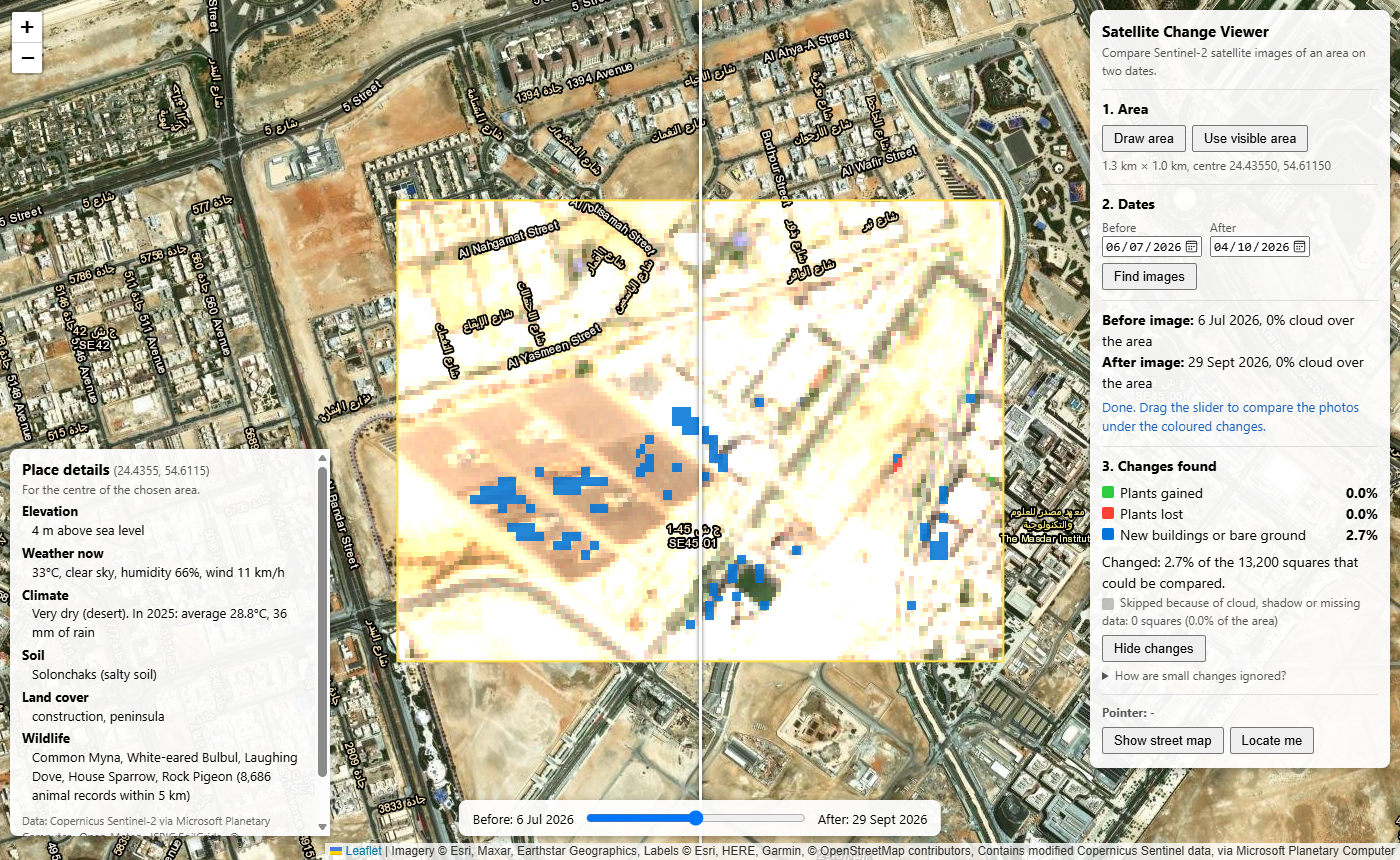
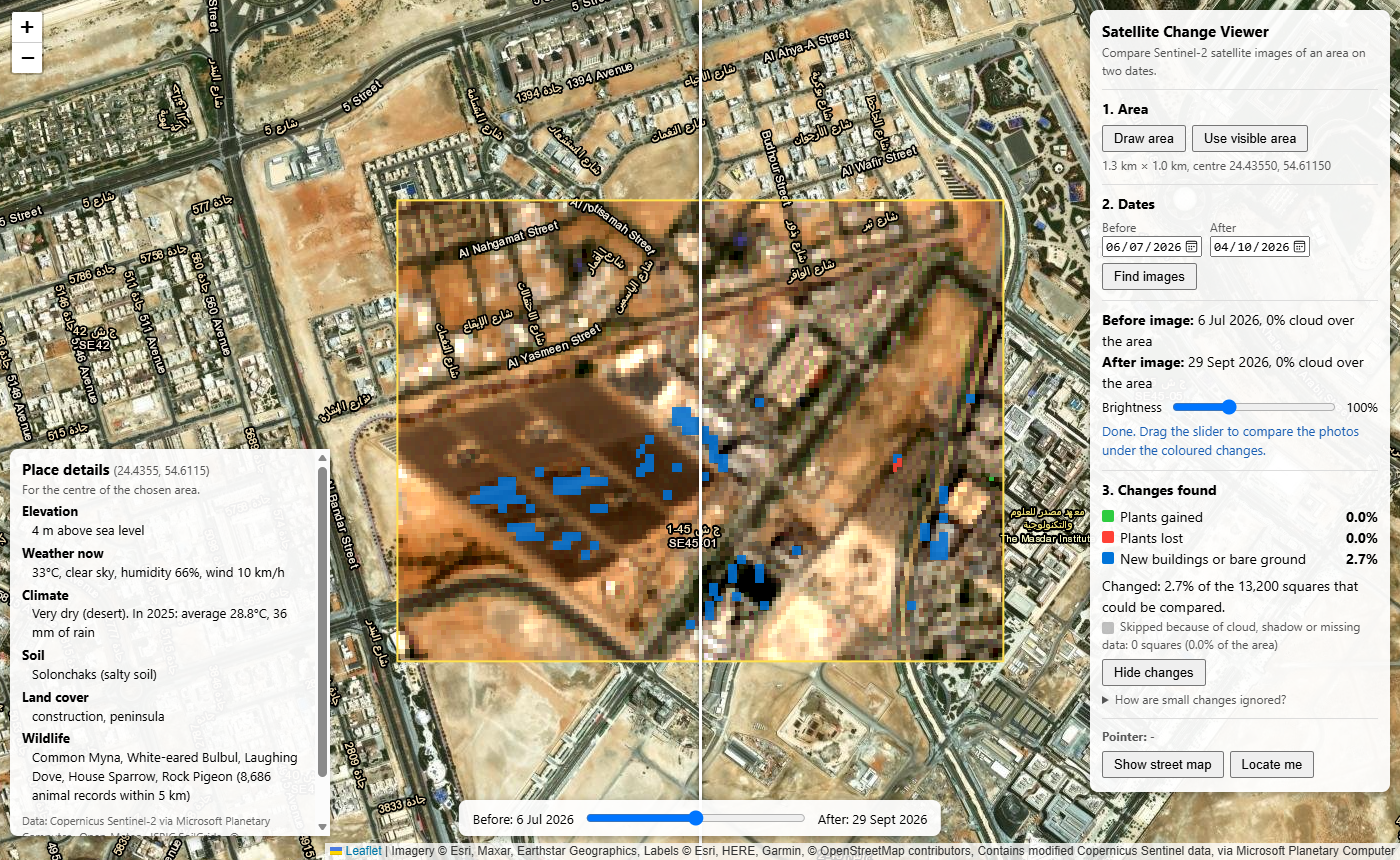
Clearer photos: automatic brightness stretch and brightness slider
The ready-made "visual" picture clips reflectance above 0.25 to white, so
desert areas came out almost white. Tiles are now built from B04/B03/B02
with a white point taken from the brightest 2% of pixels in the area
(shared by both dates), plus a 50-200% brightness slider. Band reads use
the files' smaller overview copies when the sample grid is coarse.

Changed region(s): [[0.2764, 0.2116, 0.7371, 0.786], [0.7679, 0.4535, 1.0, 0.9372]]

diff --git a/main.js b/main.js
@@ -39,6 +39,15 @@ const SHADOW_DARKENING = 0.6; // ground that became this much darker (less than 
 const CHANGE_PIXEL_METRES = 10; // size of each compared square (Sentinel-2's sharpest bands are 10 m)
 const MAX_CHANGE_AREA_KM = 10; // larger areas would download too much, so changes aren't calculated
 
+// --- Showing the photos ---
+// Black always means "no light reflected". How bright counts as white is chosen
+// from the pixels inside your area: the brightest 2% are shown as white, and
+// everything darker is spread evenly below. That way bright desert and darker
+// city both show detail.
+const DISPLAY_BRIGHT_PERCENT = 98;
+// Used if the automatic white point can't be worked out (reflectance 0.4)
+const DEFAULT_DISPLAY_WHITE = 0.4;
+
 // Microsoft Planetary Computer: a free catalogue of Sentinel-2 images, a
 // service that turns any image into map tiles, and the image files themselves.
 // None of these need an API key. Reading the files needs a free "token"
@@ -386,7 +395,7 @@ function makeGrid(area, metres) {
       lngs[i] = area.getWest() + ((column + 0.5) * (area.getEast() - area.getWest())) / columns;
     }
   }
-  return { columns: columns, rows: rows, lats: lats, lngs: lngs };
+  return { columns: columns, rows: rows, lats: lats, lngs: lngs, metres: metres };
 }
 
 // Sentinel-2 files don't use latitude and longitude. They use a flat map grid
@@ -413,7 +422,7 @@ function projectGrid(grid, item) {
     minY = Math.min(minY, y);
     maxY = Math.max(maxY, y);
   }
-  return { xs: xs, ys: ys, minX: minX, maxX: maxX, minY: minY, maxY: maxY };
+  return { xs: xs, ys: ys, minX: minX, maxX: maxX, minY: minY, maxY: maxY, metres: grid.metres };
 }
 
 // Reads one band of a photo, and returns its value at every grid point
@@ -435,9 +444,28 @@ async function readBandOnGrid(item, bandName, token, projected) {
 
 async function readBandOnGridOnce(item, bandName, token, projected) {
   const tiff = await GeoTIFF.fromUrl(item.assets[bandName].href + "?" + token);
-  const image = await tiff.getImage();
-  const [originX, originY] = image.getOrigin(); // UTM position of the file's top-left corner
-  const [pixelWidth, pixelHeight] = image.getResolution(); // e.g. 10 and -10 (rows go south)
+  const fullImage = await tiff.getImage();
+  const [originX, originY] = fullImage.getOrigin(); // UTM position of the file's top-left corner
+  const [fullPixelWidth, fullPixelHeight] = fullImage.getResolution(); // e.g. 10 and -10 (rows go south)
+
+  // Each file also holds smaller copies of the photo ("overviews"), each half
+  // the size of the one before. If our grid squares are much bigger than the
+  // pixels, we use the smallest copy that is still detailed enough: far less to download.
+  let image = fullImage;
+  let shrink = 1; // how many times smaller the chosen copy is
+  if (projected.metres >= 2 * fullPixelWidth) {
+    const copies = await tiff.getImageCount();
+    for (let i = 1; i < copies; i++) {
+      const smaller = await tiff.getImage(i);
+      const factor = fullImage.getWidth() / smaller.getWidth();
+      if (fullPixelWidth * factor <= projected.metres) {
+        image = smaller;
+        shrink = factor;
+      }
+    }
+  }
+  const pixelWidth = fullPixelWidth * shrink;
+  const pixelHeight = fullPixelHeight * shrink;
 
   // Which block of pixels covers all our grid points? (plus 1 pixel spare on each side)
   const left = Math.max(0, Math.floor((projected.minX - originX) / pixelWidth) - 1);
@@ -488,6 +516,13 @@ const CHANGE_COLOURS = {
   [SKIPPED]: [150, 150, 150, 110] // see-through grey
 };
 
+// The files store light as whole numbers: reflectance x 10000. Since 2022
+// (processing version 04.00 and later) a 1000 has also been added to every value,
+// so it must be taken off again before working with the numbers.
+function storedOffset(item) {
+  return Number(item.properties["s2:processing_baseline"]) >= 4 ? 1000 : 0;
+}
+
 // Reads the five bands of one photo and works out NDVI, NDBI and which squares to skip
 async function readScores(item, grid, token) {
   const projected = projectGrid(grid, item);
@@ -497,10 +532,7 @@ async function readScores(item, grid, token) {
     })
   );
 
-  // The files store light as whole numbers. Since 2022 (processing version
-  // 04.00 and later) a 1000 has been added to every value, so we take it off
-  // again, then divide by 10000 to get the fraction of light reflected (0 to 1).
-  const offset = Number(item.properties["s2:processing_baseline"]) >= 4 ? 1000 : 0;
+  const offset = storedOffset(item);
   function reflectance(value) {
     return Math.max(0, (value - offset) / 10000);
   }
@@ -696,7 +728,16 @@ findButton.addEventListener("click", async function () {
     beforeInfo.textContent = describeImage(before);
     afterInfo.textContent = describeImage(after);
 
-    // Show the two photos with the swipe slider
+    // Choose the brightness range from the pixels in the area, then show the
+    // two photos with the swipe slider
+    statusText.textContent = "Adjusting the brightness for your area…";
+    displayWhite = await findDisplayWhite([before.item, after.item], chosenArea, token).catch(function (error) {
+      console.warn("Could not work out the brightness:", error);
+      return DEFAULT_DISPLAY_WHITE;
+    });
+    brightnessSlider.value = 100;
+    brightnessText.textContent = "100%";
+    brightnessRow.hidden = false;
     beforeLayer = sentinelLayer(before.item, "beforePane").addTo(map);
     afterLayer = sentinelLayer(after.item, "afterPane").addTo(map);
     showSwipe(niceDate(before.item.properties.datetime), niceDate(after.item.properties.datetime));
@@ -744,23 +785,102 @@ changeToggle.addEventListener("click", function () {
   }
 });
 
-// Makes a map layer that shows one Sentinel-2 photo, using the Planetary
-// Computer's tile service. "visual" is the ready-made true-colour picture.
-// bounds: only load the part inside our area, so the rest of the map stays normal.
-function sentinelLayer(item, pane) {
-  return L.tileLayer(
+// =====================================================
+// 4d. Showing the photos with clear detail
+// =====================================================
+// Sentinel-2's ready-made colour picture ("visual") shows reflectance from 0 to
+// 0.25 and turns anything brighter pure white. Desert sand reflects 0.3 to 0.5,
+// so the desert came out almost white. Instead, we ask the tile service to make
+// the picture from the red, green and blue bands (B04, B03, B02), and tell it
+// which range of values to stretch from black to white ("rescale").
+
+let displayWhite = DEFAULT_DISPLAY_WHITE; // the reflectance shown as white
+
+// Looks at the red, green and blue pixels inside the area in both photos, and
+// finds how bright the brightest 2% are. Both photos use the same white point,
+// so they can be compared fairly, and all three colours use it too, so colours
+// stay natural.
+async function findDisplayWhite(items, area, token) {
+  // Up to about 150 x 150 sample points, at least 20 m apart
+  const widthMetres = map.distance(area.getSouthWest(), area.getSouthEast());
+  const heightMetres = map.distance(area.getSouthWest(), area.getNorthWest());
+  const grid = makeGrid(area, Math.max(20, Math.max(widthMetres, heightMetres) / 150));
+
+  const perPhoto = await Promise.all(
+    items.map(async function (item) {
+      const projected = projectGrid(grid, item);
+      const bands = await Promise.all(
+        ["B04", "B03", "B02"].map(function (band) {
+          return readBandOnGrid(item, band, token, projected);
+        })
+      );
+      const offset = storedOffset(item);
+      const values = [];
+      for (const band of bands) {
+        for (const value of band) {
+          if (value > 0) values.push((value - offset) / 10000); // 0 = no data
+        }
+      }
+      return values;
+    })
+  );
+
+  const all = Float32Array.from(perPhoto.flat()).sort(); // smallest to largest
+  if (all.length === 0) return DEFAULT_DISPLAY_WHITE;
+  const white = all[Math.floor(((all.length - 1) * DISPLAY_BRIGHT_PERCENT) / 100)];
+  return Math.max(white, 0.05); // never closer to black than 0.05, even over dark water
+}
+
+// The web address of a photo's map tiles, using the current brightness range
+function tileUrlFor(item) {
+  // The brightness slider lowers the white point (brighter picture) or raises
+  // it (darker picture). 100% = the automatic white point.
+  const brightness = brightnessSlider.value / 100;
+  const white = displayWhite / brightness;
+  // Turn reflectance back into the numbers stored in this photo's files
+  const offset = storedOffset(item);
+  const toStored = function (reflectance) {
+    return Math.round(reflectance * 10000 + offset);
+  };
+  return (
     TILE_URL +
-      "?collection=sentinel-2-l2a&item=" + item.id +
-      "&assets=visual&asset_bidx=visual%7C1%2C2%2C3&nodata=0",
-    {
-      pane: pane,
-      bounds: chosenArea,
-      maxZoom: 19,
-      maxNativeZoom: 16, // Sentinel-2 pixels are 10 m; closer than this, tiles are just enlarged
-      attribution: "Contains modified Copernicus Sentinel data, via Microsoft Planetary Computer"
-    }
+    "?collection=sentinel-2-l2a&item=" + item.id +
+    "&assets=B04&assets=B03&assets=B02" + // red, green, blue
+    "&nodata=0" +
+    "&rescale=" + toStored(0) + "," + toStored(white) // black, white
   );
 }
+
+// Makes a map layer that shows one Sentinel-2 photo.
+// bounds: only load the part inside our area, so the rest of the map stays normal.
+function sentinelLayer(item, pane) {
+  const layer = L.tileLayer(tileUrlFor(item), {
+    pane: pane,
+    bounds: chosenArea,
+    maxZoom: 19,
+    maxNativeZoom: 16, // Sentinel-2 pixels are 10 m; closer than this, tiles are just enlarged
+    attribution: "Contains modified Copernicus Sentinel data, via Microsoft Planetary Computer"
+  });
+  layer.item = item; // remember which photo it shows, for the brightness slider
+  return layer;
+}
+
+// --- The brightness slider ---
+const brightnessRow = document.getElementById("brightness-row");
+const brightnessSlider = document.getElementById("brightness-slider");
+const brightnessText = document.getElementById("brightness-value");
+
+// While dragging, just show the number
+brightnessSlider.addEventListener("input", function () {
+  brightnessText.textContent = brightnessSlider.value + "%";
+});
+
+// When the slider is let go, redraw both photos with the new brightness
+brightnessSlider.addEventListener("change", function () {
+  for (const layer of [beforeLayer, afterLayer]) {
+    if (layer) layer.setUrl(tileUrlFor(layer.item));
+  }
+});
 
 // Turns "2026-07-31T06:46:29Z" into "31 Jul 2026"
 function niceDate(isoText) {
@@ -783,6 +903,7 @@ function clearComparison() {
   beforeInfo.textContent = "-";
   afterInfo.textContent = "-";
   changeSection.hidden = true;
+  brightnessRow.hidden = true;
   swipeBar.hidden = true;
   swipeLine.hidden = true;
 }

diff --git a/index.html b/index.html
@@ -49,6 +49,12 @@
     <div class="step">
       <div><strong>Before image:</strong> <span id="before-info">-</span></div>
       <div><strong>After image:</strong> <span id="after-info">-</span></div>
+      <!-- Brightness of the Sentinel-2 photos. "hidden" until photos are shown. -->
+      <div id="brightness-row" class="brightness" hidden>
+        <label for="brightness-slider">Brightness</label>
+        <input id="brightness-slider" type="range" min="50" max="200" step="10" value="100">
+        <span id="brightness-value">100%</span>
+      </div>
       <div id="status-text" class="status">Start by choosing an area.</div>
     </div>
 

diff --git a/style.css b/style.css
@@ -107,6 +107,25 @@ body {
   font-size: 13px;
 }
 
+/* The brightness slider: label, slider and percentage on one line */
+.brightness {
+  display: flex;
+  align-items: center;
+  gap: 8px;
+  margin-top: 4px;
+  font-size: 13px;
+}
+
+.brightness input {
+  flex: 1; /* the slider takes up the space that's left */
+  min-width: 0;
+}
+
+/* The [hidden] attribute must win over "display: flex" above */
+.brightness[hidden] {
+  display: none;
+}
+
 /* Hide the location status line until there is something to say */
 #locate-status:empty {
   display: none;
